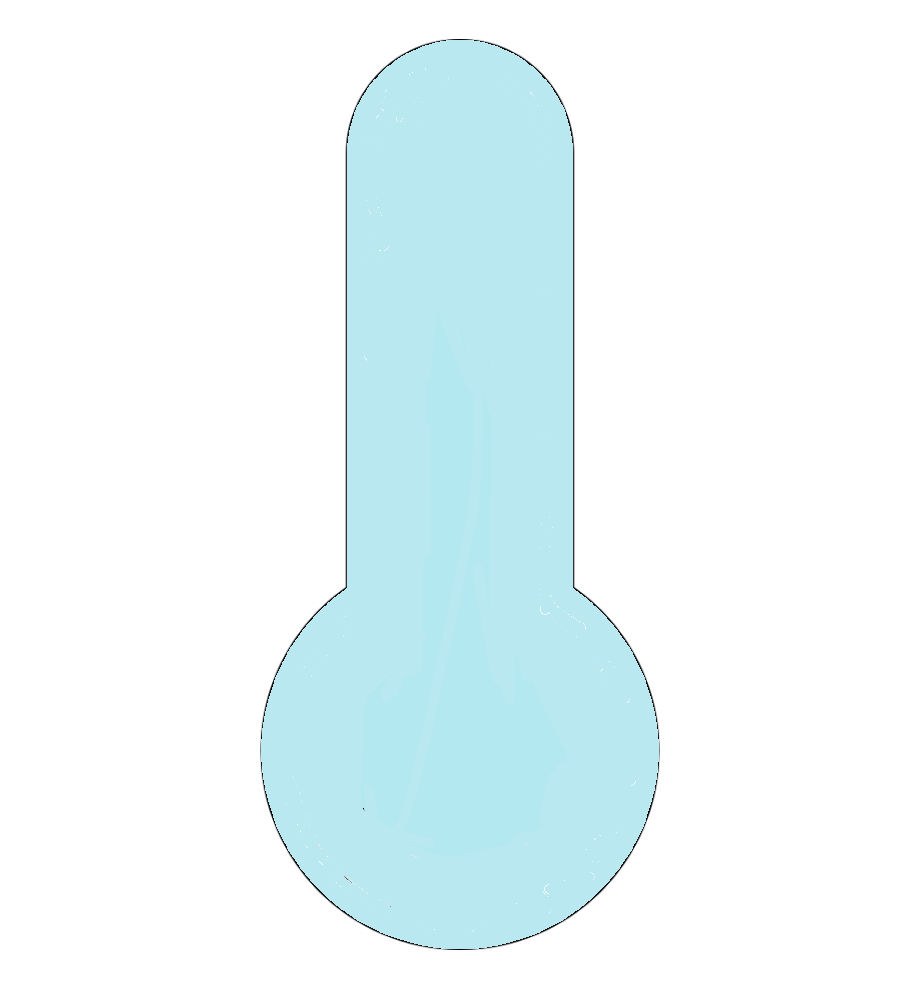
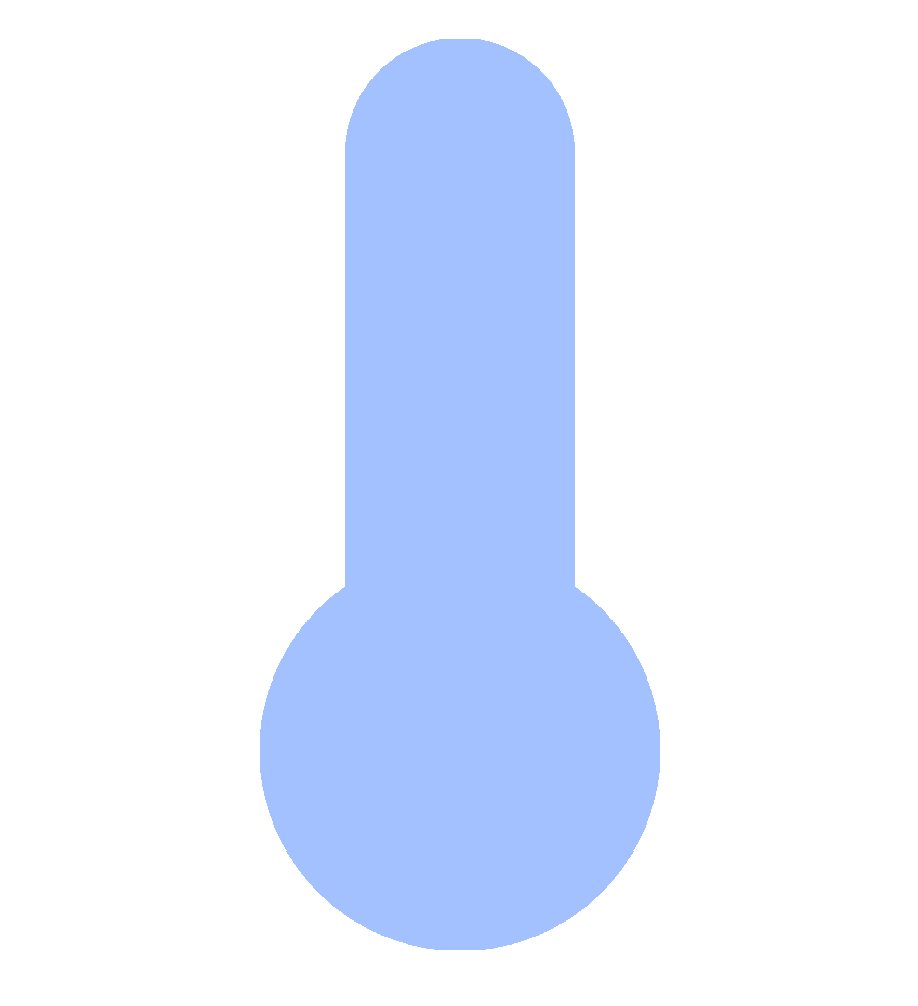
new assets

Changed region(s): [[0.2745, 0.0308, 0.732, 0.9553]]

diff --git a/temp.py b/temp.py
@@ -11,41 +11,55 @@ CS      = 25
 channel = 0
 rref    = 1000
 
-img_size        = (500,200)
+img_size        = (500,90)
 screen_size     = (1280,720)
 temp_text_pos   = (1050,500)
-heart_pos       = (980,510)
-thermo_pos      = (980,590)
+heart_text_pos  = (1050,580)
+thermo_pos      = (980,510)
+heart_pos       = (980,590)
 font_size       = 50
 
-img         = Image.new('RGBA',img_size,color=Color4.transparent)
 font        = ImageFont.truetype("OpenSans-Regular.ttf",size=font_size)
+img         = Image.new('RGBA',img_size,color=Color4.transparent)
 temp_text   = ImageDraw.Draw(img)
-
-img         = Image.new('RGBA',img_size,color=Color4.transparent)
-font        = ImageFont.truetype("OpenSans-Regular.ttf",size=font_size)
-heart_text  = ImageDraw.Draw(img)
+img2        = Image.new('RGBA',img_size,color=Color4.transparent)
+heart_text  = ImageDraw.Draw(img2)
 
 heart       = Image.open("heart.png").resize((50,50))
 thermo      = Image.open("thermo.png").resize((50,50))
 pad         = Image.new('RGBA', screen_size)
+
+prev_temperature    = -1
+prev_heartrate      = -1
+doInit              = True
 #---------- setup ----------#
 
 
 #while(True):
 # Get ADC value and convert to temperature
 # ADC_value = readAdc(channel, CLK, MISO, MOSI, CS)
-heartrate   = str(random.randint(160,170))
-temperature = str(random.randint(160,170))
+temperature         = str(random.randint(150,160))
+heartrate           = str(random.randint(160,170))
+if doInit:
+    prev_temperature    = temperature
+    prev_heartrate      = heartrate
+temperature_delta   = temperature-prev_temperature
+heartrate_delta     = heartrate-prev_heartrate
 
 sleep(0.1)
 
 # clear and redraw
 temp_text.rectangle([(0,0),img_size],fill=Color4.transparent)
 temp_text.text((0,0),str(int(temperature)), font=font, fill=Color3.black)
+heart_text.rectangle([(0,0),img_size],fill=Color4.transparent)
+heart_text.text((0,0),str(int(heartrate)), font=font, fill=Color3.black)
 
 # create overlay using drawing
 pad.paste(img, temp_text_pos)
+pad.paste(img2, heart_text_pos)
 pad.paste(heart, heart_pos)
 pad.paste(thermo, thermo_pos)
 pad.save("new.png")
+
+prev_temperature = temperature
+prev_heartrate = heartrate

diff --git a/recolor.py b/recolor.py
@@ -1,0 +1,22 @@
+import png, array
+import os, sys
+from colors import Color4
+
+color = Color4.l_red
+fname = "heart.png"
+result = "heart.png"
+
+reader = png.Reader(filename=fname)
+w, h, pixels, metadata = reader.read_flat()
+
+for i in range(h):
+    for j in range(w):
+        vals = pixels[((i*w)+j)*4:((i*w)+j)*4+4]
+        if vals[3]!=0 and ((i*w)+j)*4+3 < len(pixels):
+            for k in range(4):
+                pixels[((i*w)+j)*4+k] = color[k]
+
+output = open(result, 'wb')
+writer = png.Writer(w, h, greyscale=False, alpha=True)
+writer.write_array(output, pixels)
+output.close()

diff --git a/overlay.py b/overlay.py
@@ -41,7 +41,7 @@ while(True):
     
     # clear and redraw
     drawing.rectangle([(0,0),img_size],fill=Color4.transparent)
-    drawing.text((0,0)),str(int(temperature)), font=font, fill=Color3.black)
+    drawing.text((0,0),str(int(temperature)), font=font, fill=Color3.black)
 
     # create overlay using drawing
     pad.paste(img, temp_text_pos)

diff --git a/colors.py b/colors.py
@@ -1,5 +1,8 @@
 class Color4:
     transparent = (0,0,0,0)
+    l_yellow    = (255,255,80,150)
+    l_blue      = (100,150,255,150)
+    l_red       = (255,0,0,150)
 
 class Color3:
     red         = (255,0,0)
